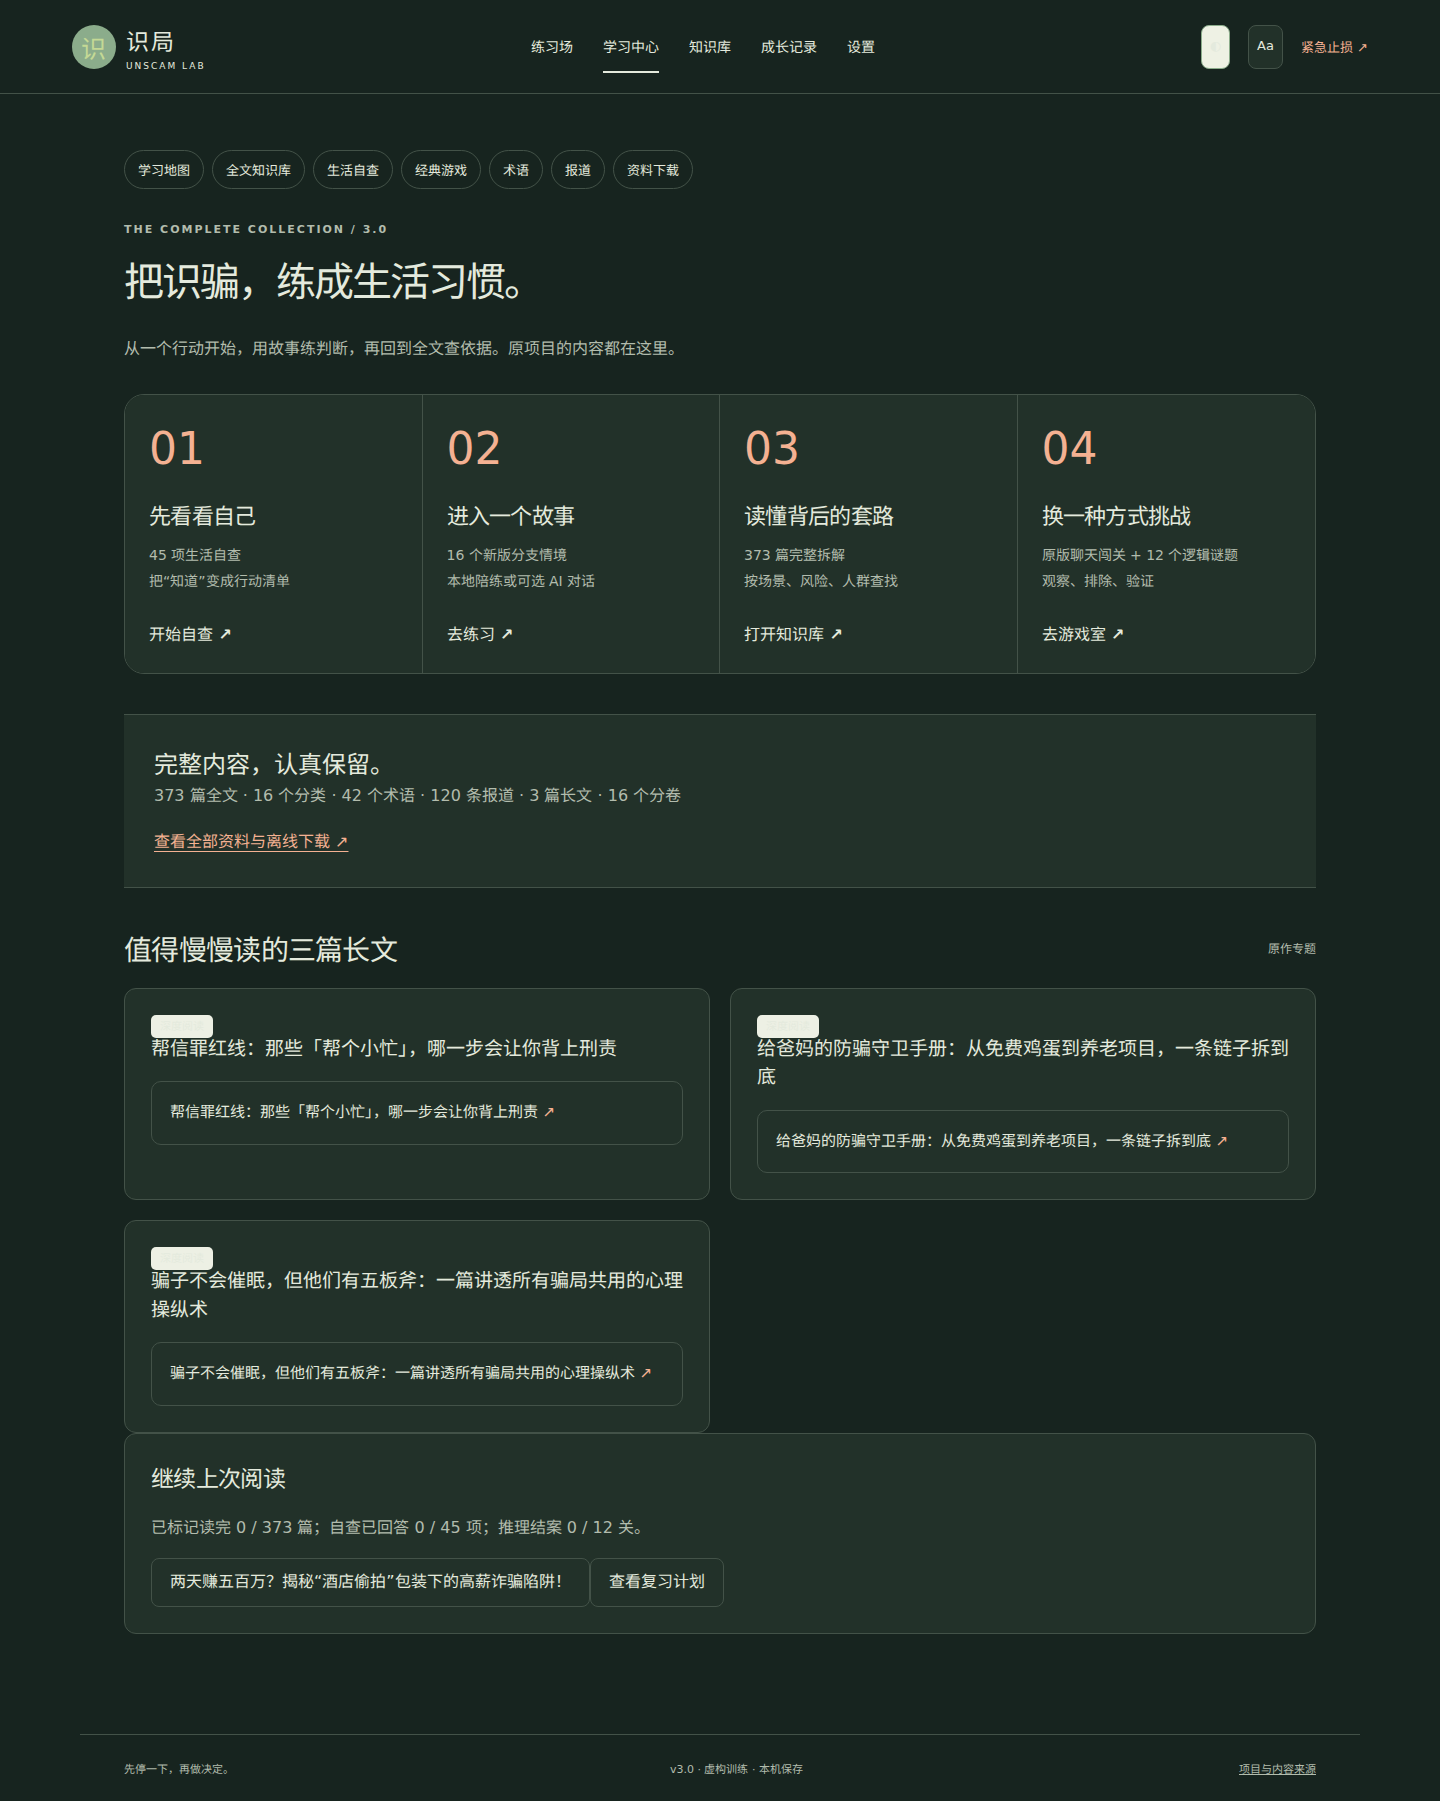
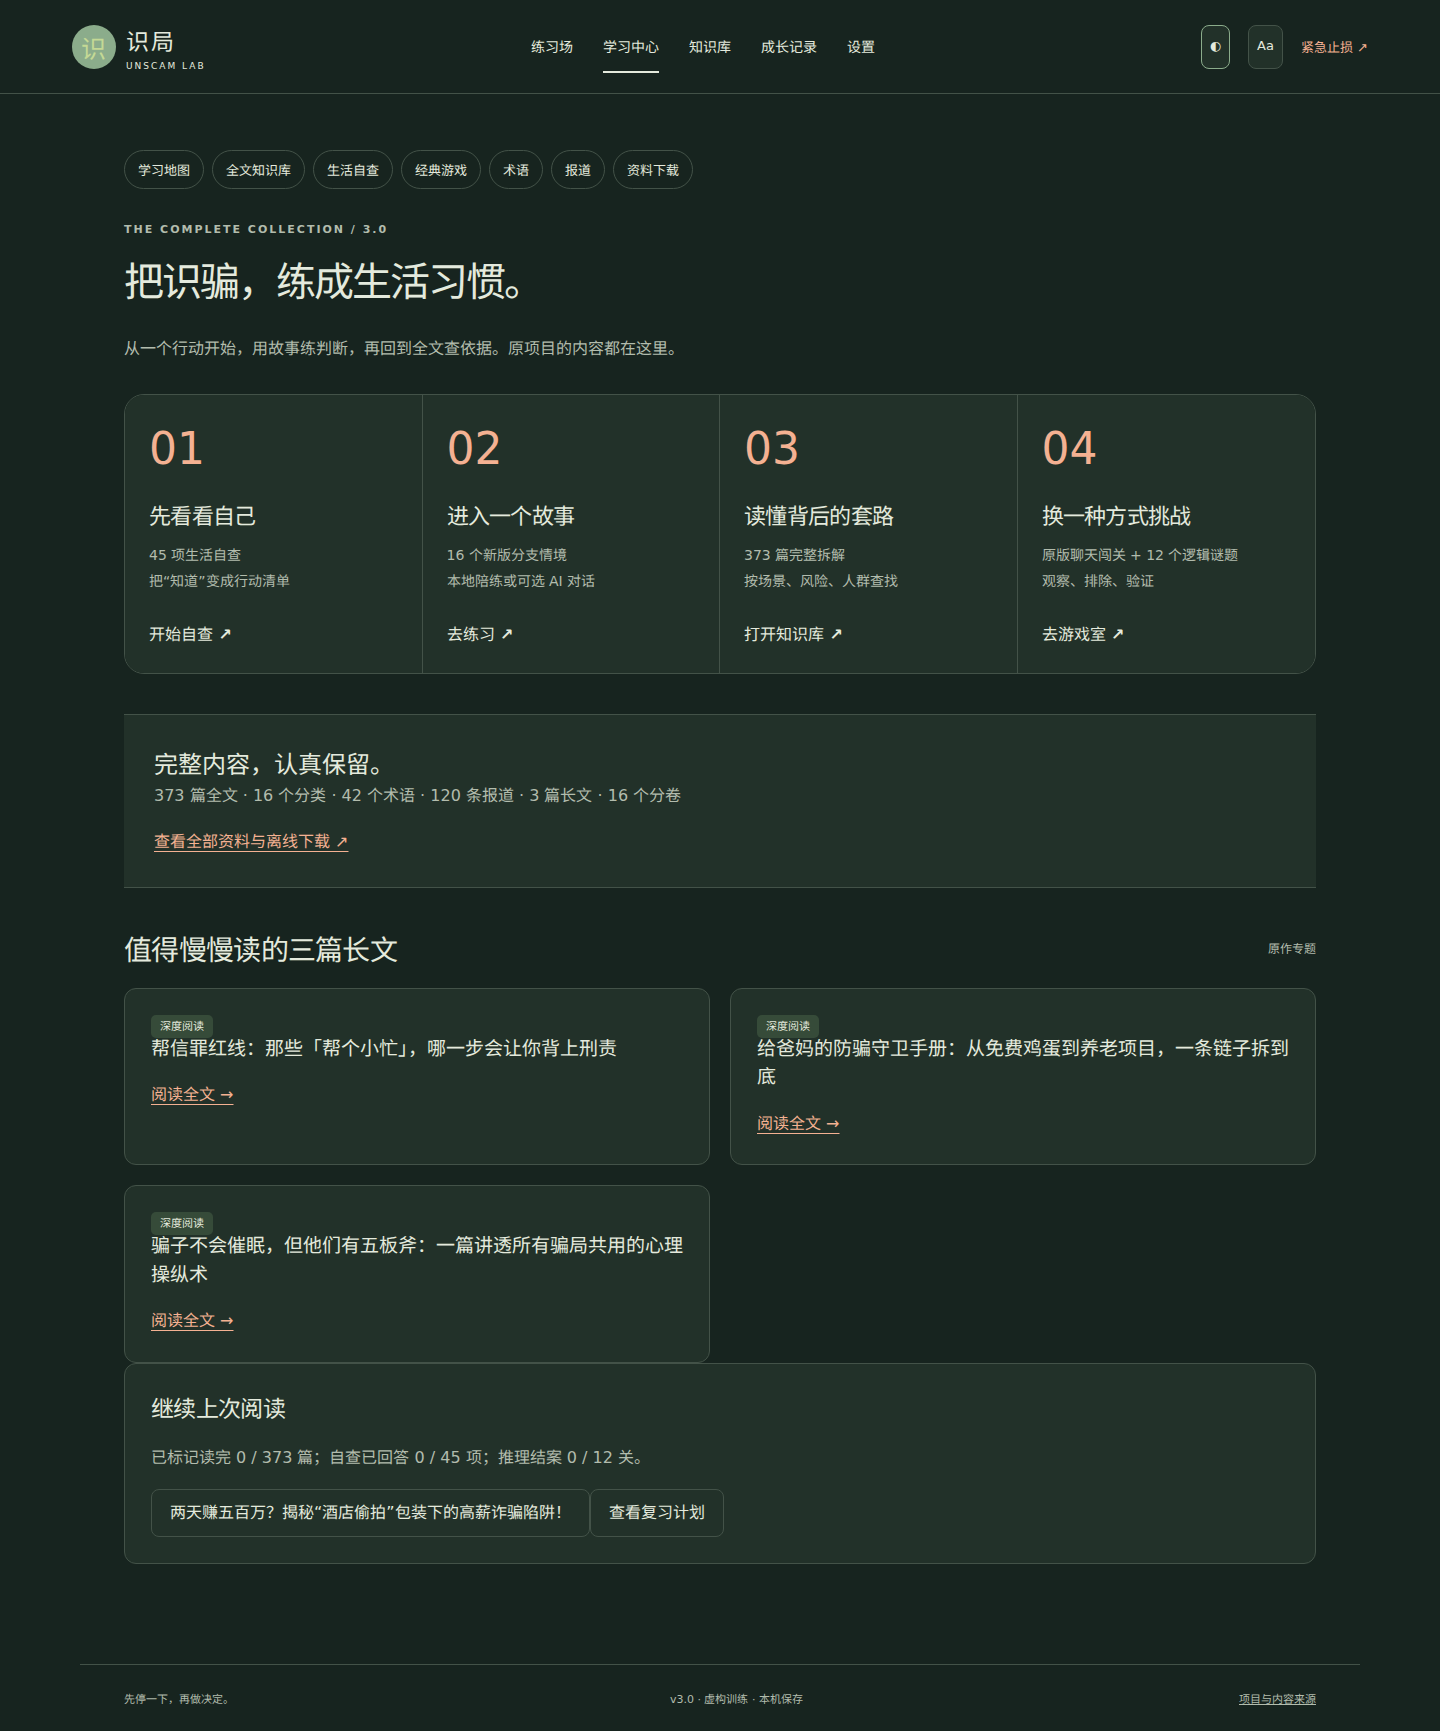
fix: improve dark-mode contrast and reading card hierarchy

diff --git a/public/sw.js b/public/sw.js
@@ -1,5 +1,5 @@
 // Generated by npm run build. Do not hand-edit.
-const CACHE='unscam-v3-4136b446ab2e';
+const CACHE='unscam-v3-0f523ca57c42';
 const ASSETS=["./","./app.js","./classic/chat.html","./classic/chat.js","./classic/logic.html","./data/collection.json","./data/knowledge.json","./data/lessons.json","./data/scenarios.json","./engine.js","./icon-192.png","./icon-512.png","./icon.svg","./index.html","./lib/learning.js","./lib/storage.js","./manifest.webmanifest","./reference/book/01-兼职刷单.md","./reference/book/02-洗钱银行卡.md","./reference/book/03-网购二手快递.md","./reference/book/04-网赌博彩.md","./reference/book/05-投资虚拟币.md","./reference/book/06-网贷套路贷.md","./reference/book/07-情感色情陷阱.md","./reference/book/08-AI盗号技术.md","./reference/book/09-冒充公检法.md","./reference/book/10-隐私信息黑市.md","./reference/book/11-求职加盟.md","./reference/book/12-老人学生宝妈.md","./reference/book/13-生活中的坑.md","./reference/book/14-黑灰产大盘.md","./reference/book/15-民生缴费票务.md","./reference/book/16-应急反诈工具.md","./reference/docs/分篇与标注口径.md","./reference/docs/术语表.md","./reference/docs/核实记录.md","./reference/docs/案例与报道.md","./reference/docs/目录.md","./reference/docs/长文-帮信罪红线.md","./reference/docs/长文-给爸妈的守卫手册.md","./reference/docs/长文-骗子的五板斧.md","./reference/game/css/style.css","./reference/game/js/data.js","./reference/game/js/game.js","./reference/game/js/replies.js","./reference/skill/防骗问答/SKILL.md","./style.css"];
 const URLS=new Set(ASSETS.map(p=>new URL(p,self.registration.scope).href));
 self.addEventListener('install',e=>e.waitUntil(caches.open(CACHE).then(c=>c.addAll(ASSETS))));

diff --git a/public/style.css b/public/style.css
@@ -1898,3 +1898,9 @@ footer a {
     --orange: #333;
   }
 }
+
+/* Dark controls must not inherit pale backgrounds with pale text. */
+[data-theme="dark"] button, [data-theme="dark"] .button { background: var(--white); color: var(--ink); }
+[data-theme="dark"] .tag, [data-theme="dark"] .badge { background: #364b39; color: #e4eadd; }
+[data-theme="dark"] button.primary, [data-theme="dark"] .button.primary, [data-theme="dark"] .chip.selected { background: #c4d995; color: #203d32; }
+[data-theme="dark"] button.text { background: transparent; }

diff --git a/public/lib/learning.js b/public/lib/learning.js
@@ -192,7 +192,7 @@ export function createLearning(ctx) {
         .filter((d) => d.kind === "长文")
         .map(
           (d) =>
-            `<article class="panel"><span class="tag">深度阅读</span><h3>${esc(d.title)}</h3>${docLink(d)}</article>`,
+            `<article class="panel"><span class="tag">深度阅读</span><h3>${esc(d.title)}</h3>${link("document:"+d.id,"阅读全文 →","text-link")}</article>`,
         )
         .join(
           "",
